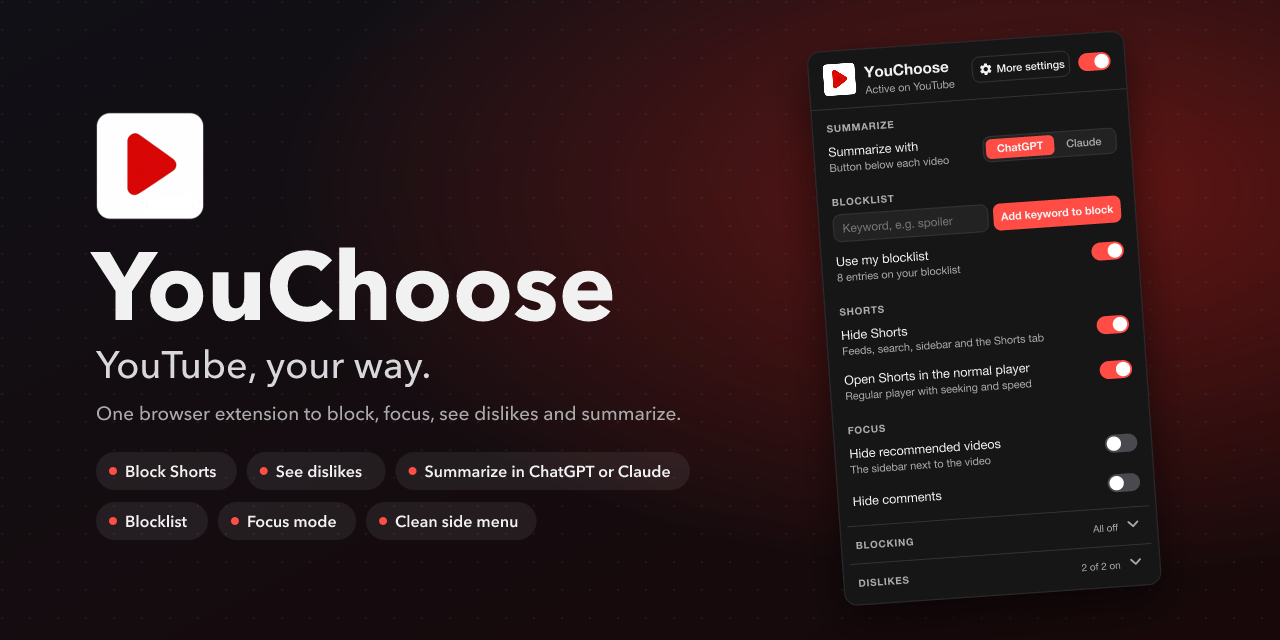
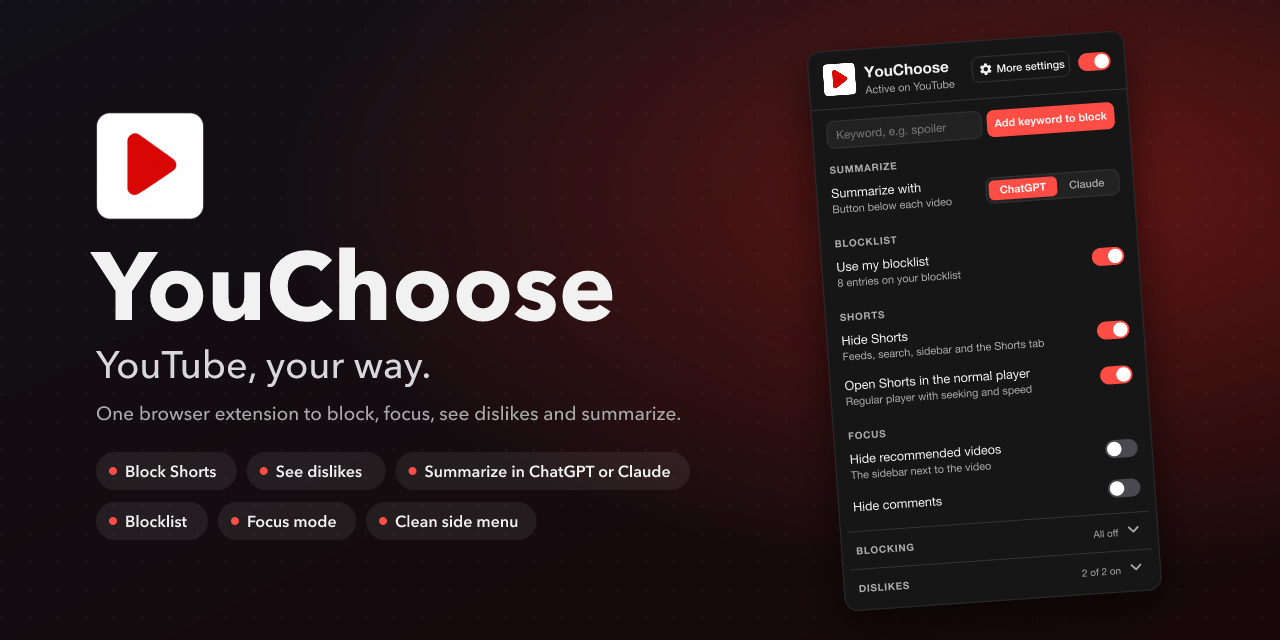
Move "Add keyword to block" to the top of the popup
The keyword box now sits right under the header, above the ChatGPT /
Claude choice. The README images show the new order.

diff --git a/popup/popup.html b/popup/popup.html
@@ -25,6 +25,14 @@
     </header>
 
     <main>
+      <section class="quick-block">
+        <form id="add-keyword" class="keyword" autocomplete="off">
+          <input id="keyword" type="text" placeholder="Keyword, e.g. spoiler" maxlength="100" spellcheck="false" aria-label="Keyword to block" />
+          <button type="submit">Add keyword to block</button>
+        </form>
+        <p id="keyword-status" class="keyword-status" role="status" hidden></p>
+      </section>
+
       <section>
         <h2>Summarize</h2>
         <div class="row static">
@@ -38,11 +46,6 @@
 
       <section>
         <h2>Blocklist</h2>
-        <form id="add-keyword" class="keyword" autocomplete="off">
-          <input id="keyword" type="text" placeholder="Keyword, e.g. spoiler" maxlength="100" spellcheck="false" aria-label="Keyword to block" />
-          <button type="submit">Add keyword to block</button>
-        </form>
-        <p id="keyword-status" class="keyword-status" role="status" hidden></p>
         <label class="row">
           <span>Use my blocklist<small id="blocklist-count">Block channels, words and videos</small></span>
           <span class="switch"><input type="checkbox" data-key="useBlocklist" /><span></span></span>

diff --git a/popup/popup.css b/popup/popup.css
@@ -205,3 +205,8 @@ details.group summary:focus-visible {
   outline: 2px solid var(--focus);
   outline-offset: -2px;
 }
+
+/* The keyword box sits first, right under the header */
+.quick-block {
+  padding-top: 10px;
+}
